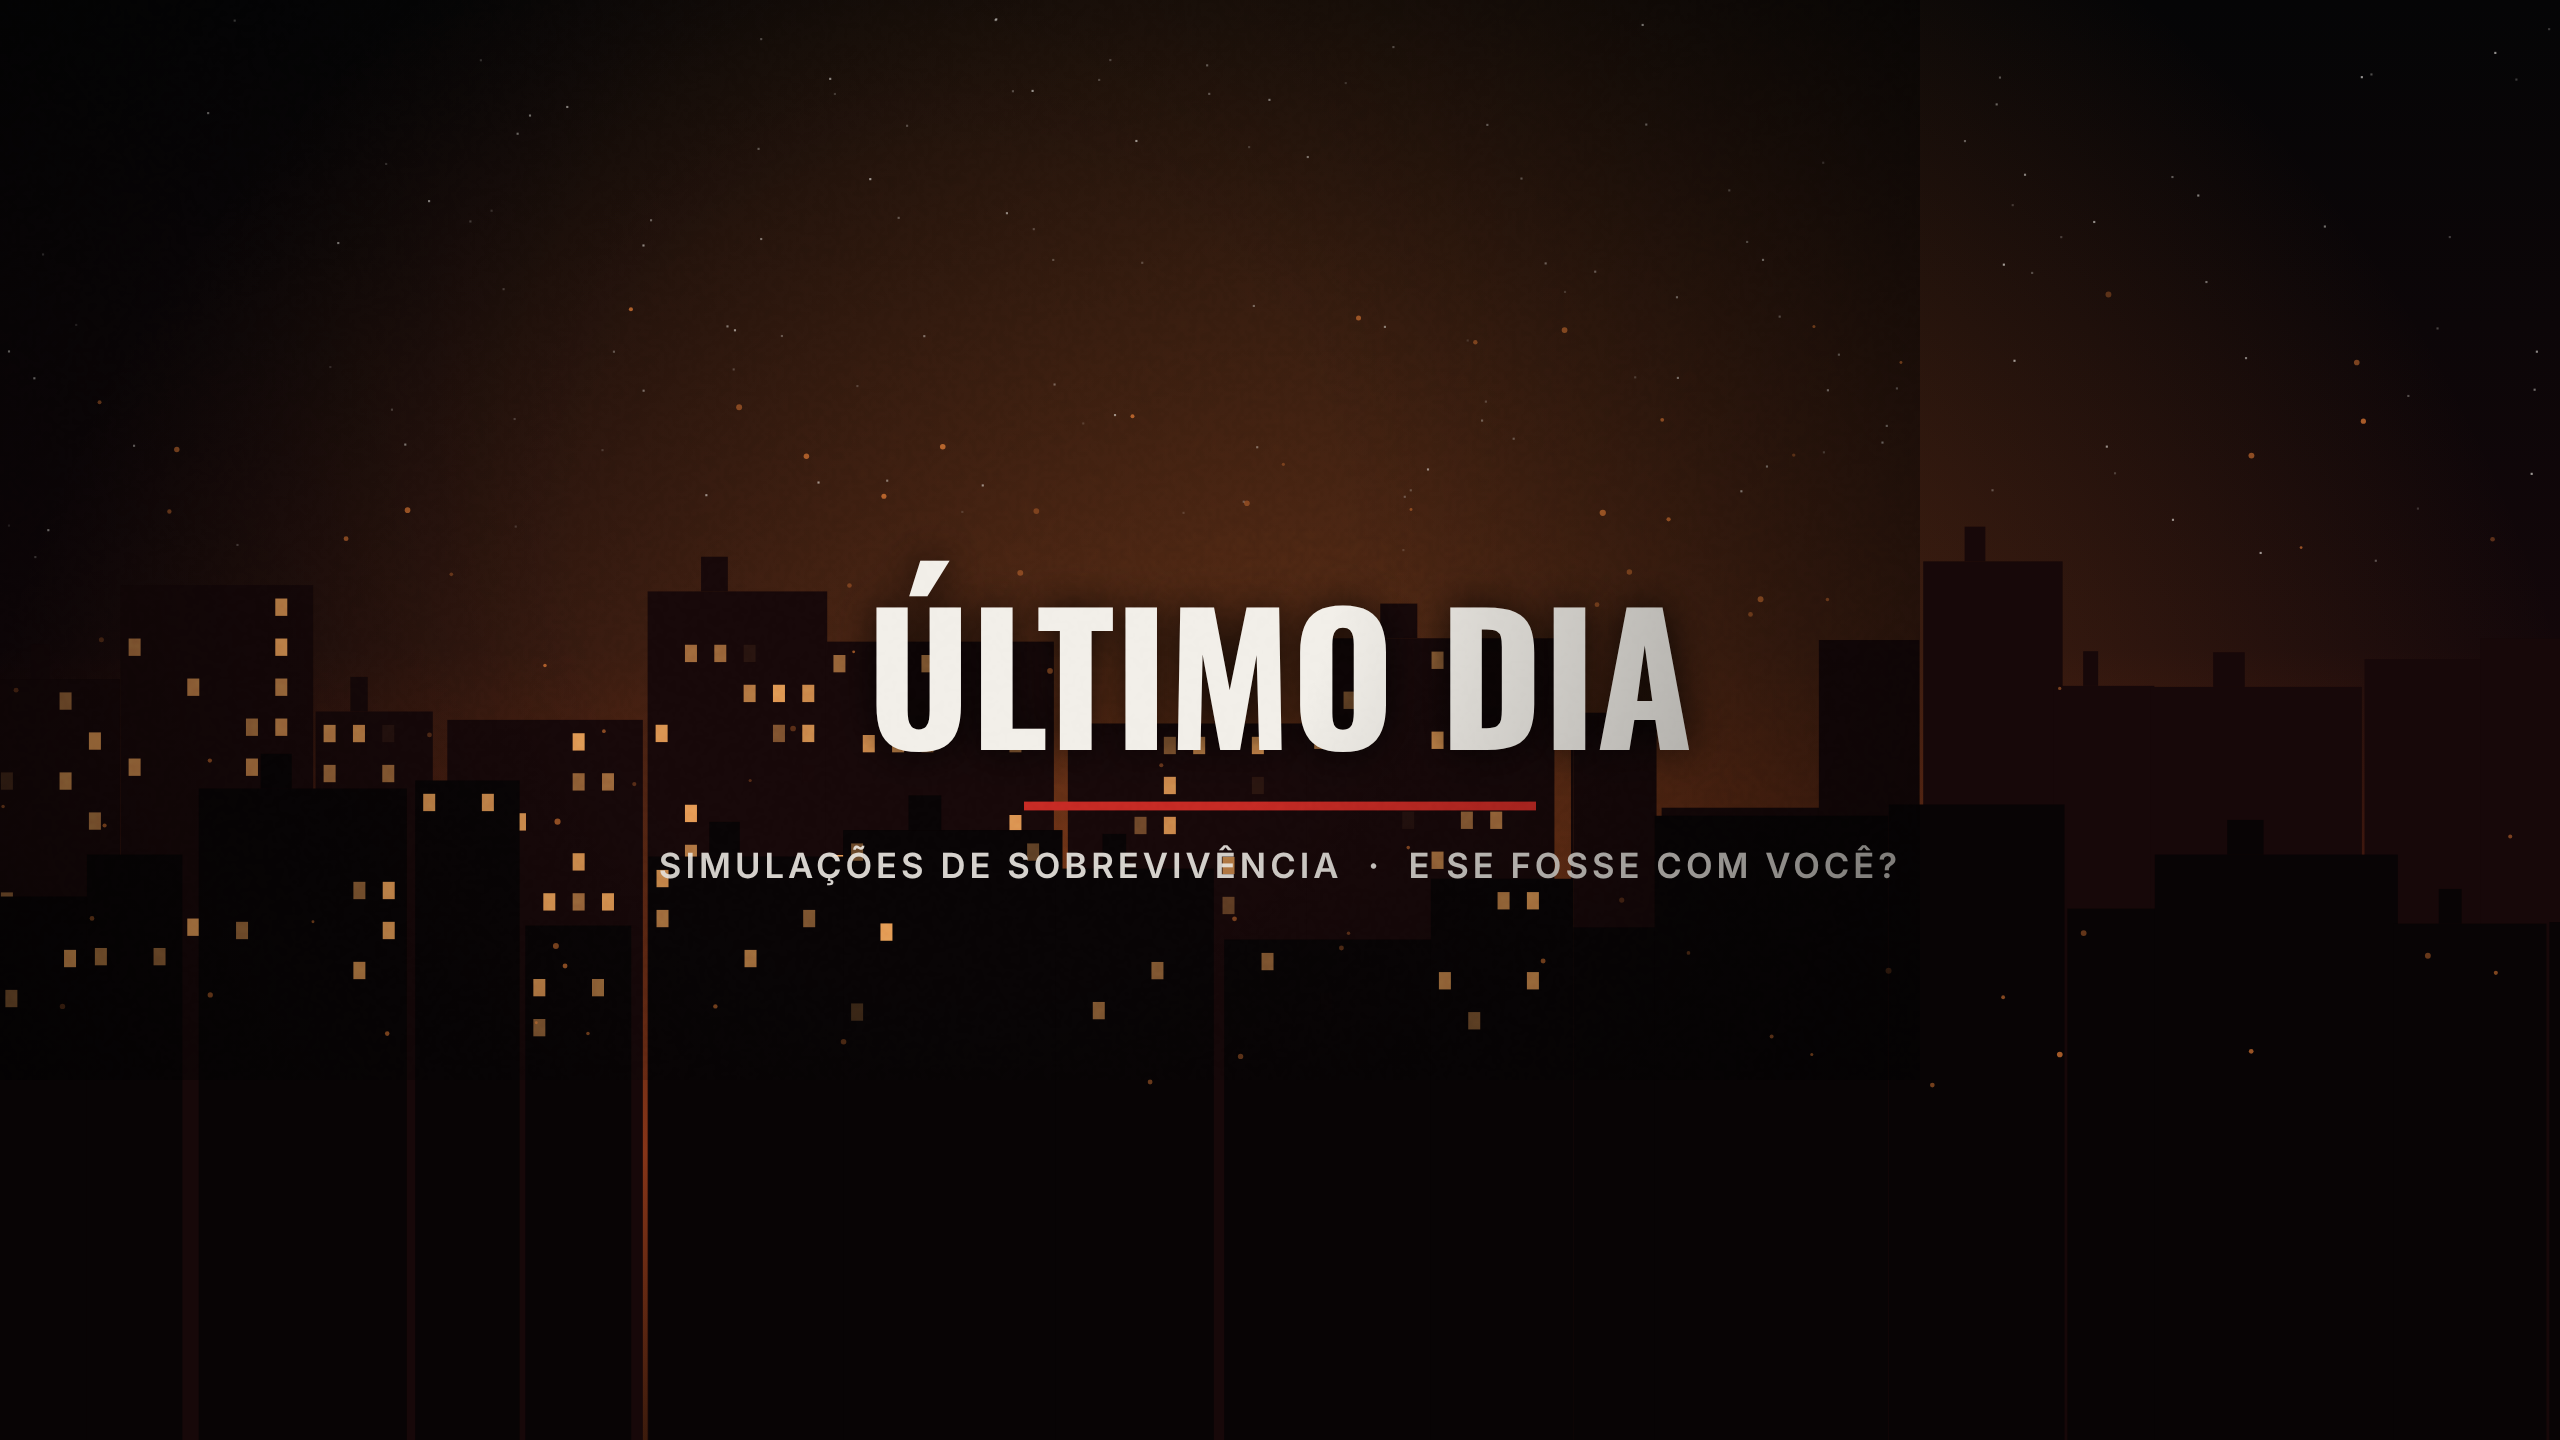
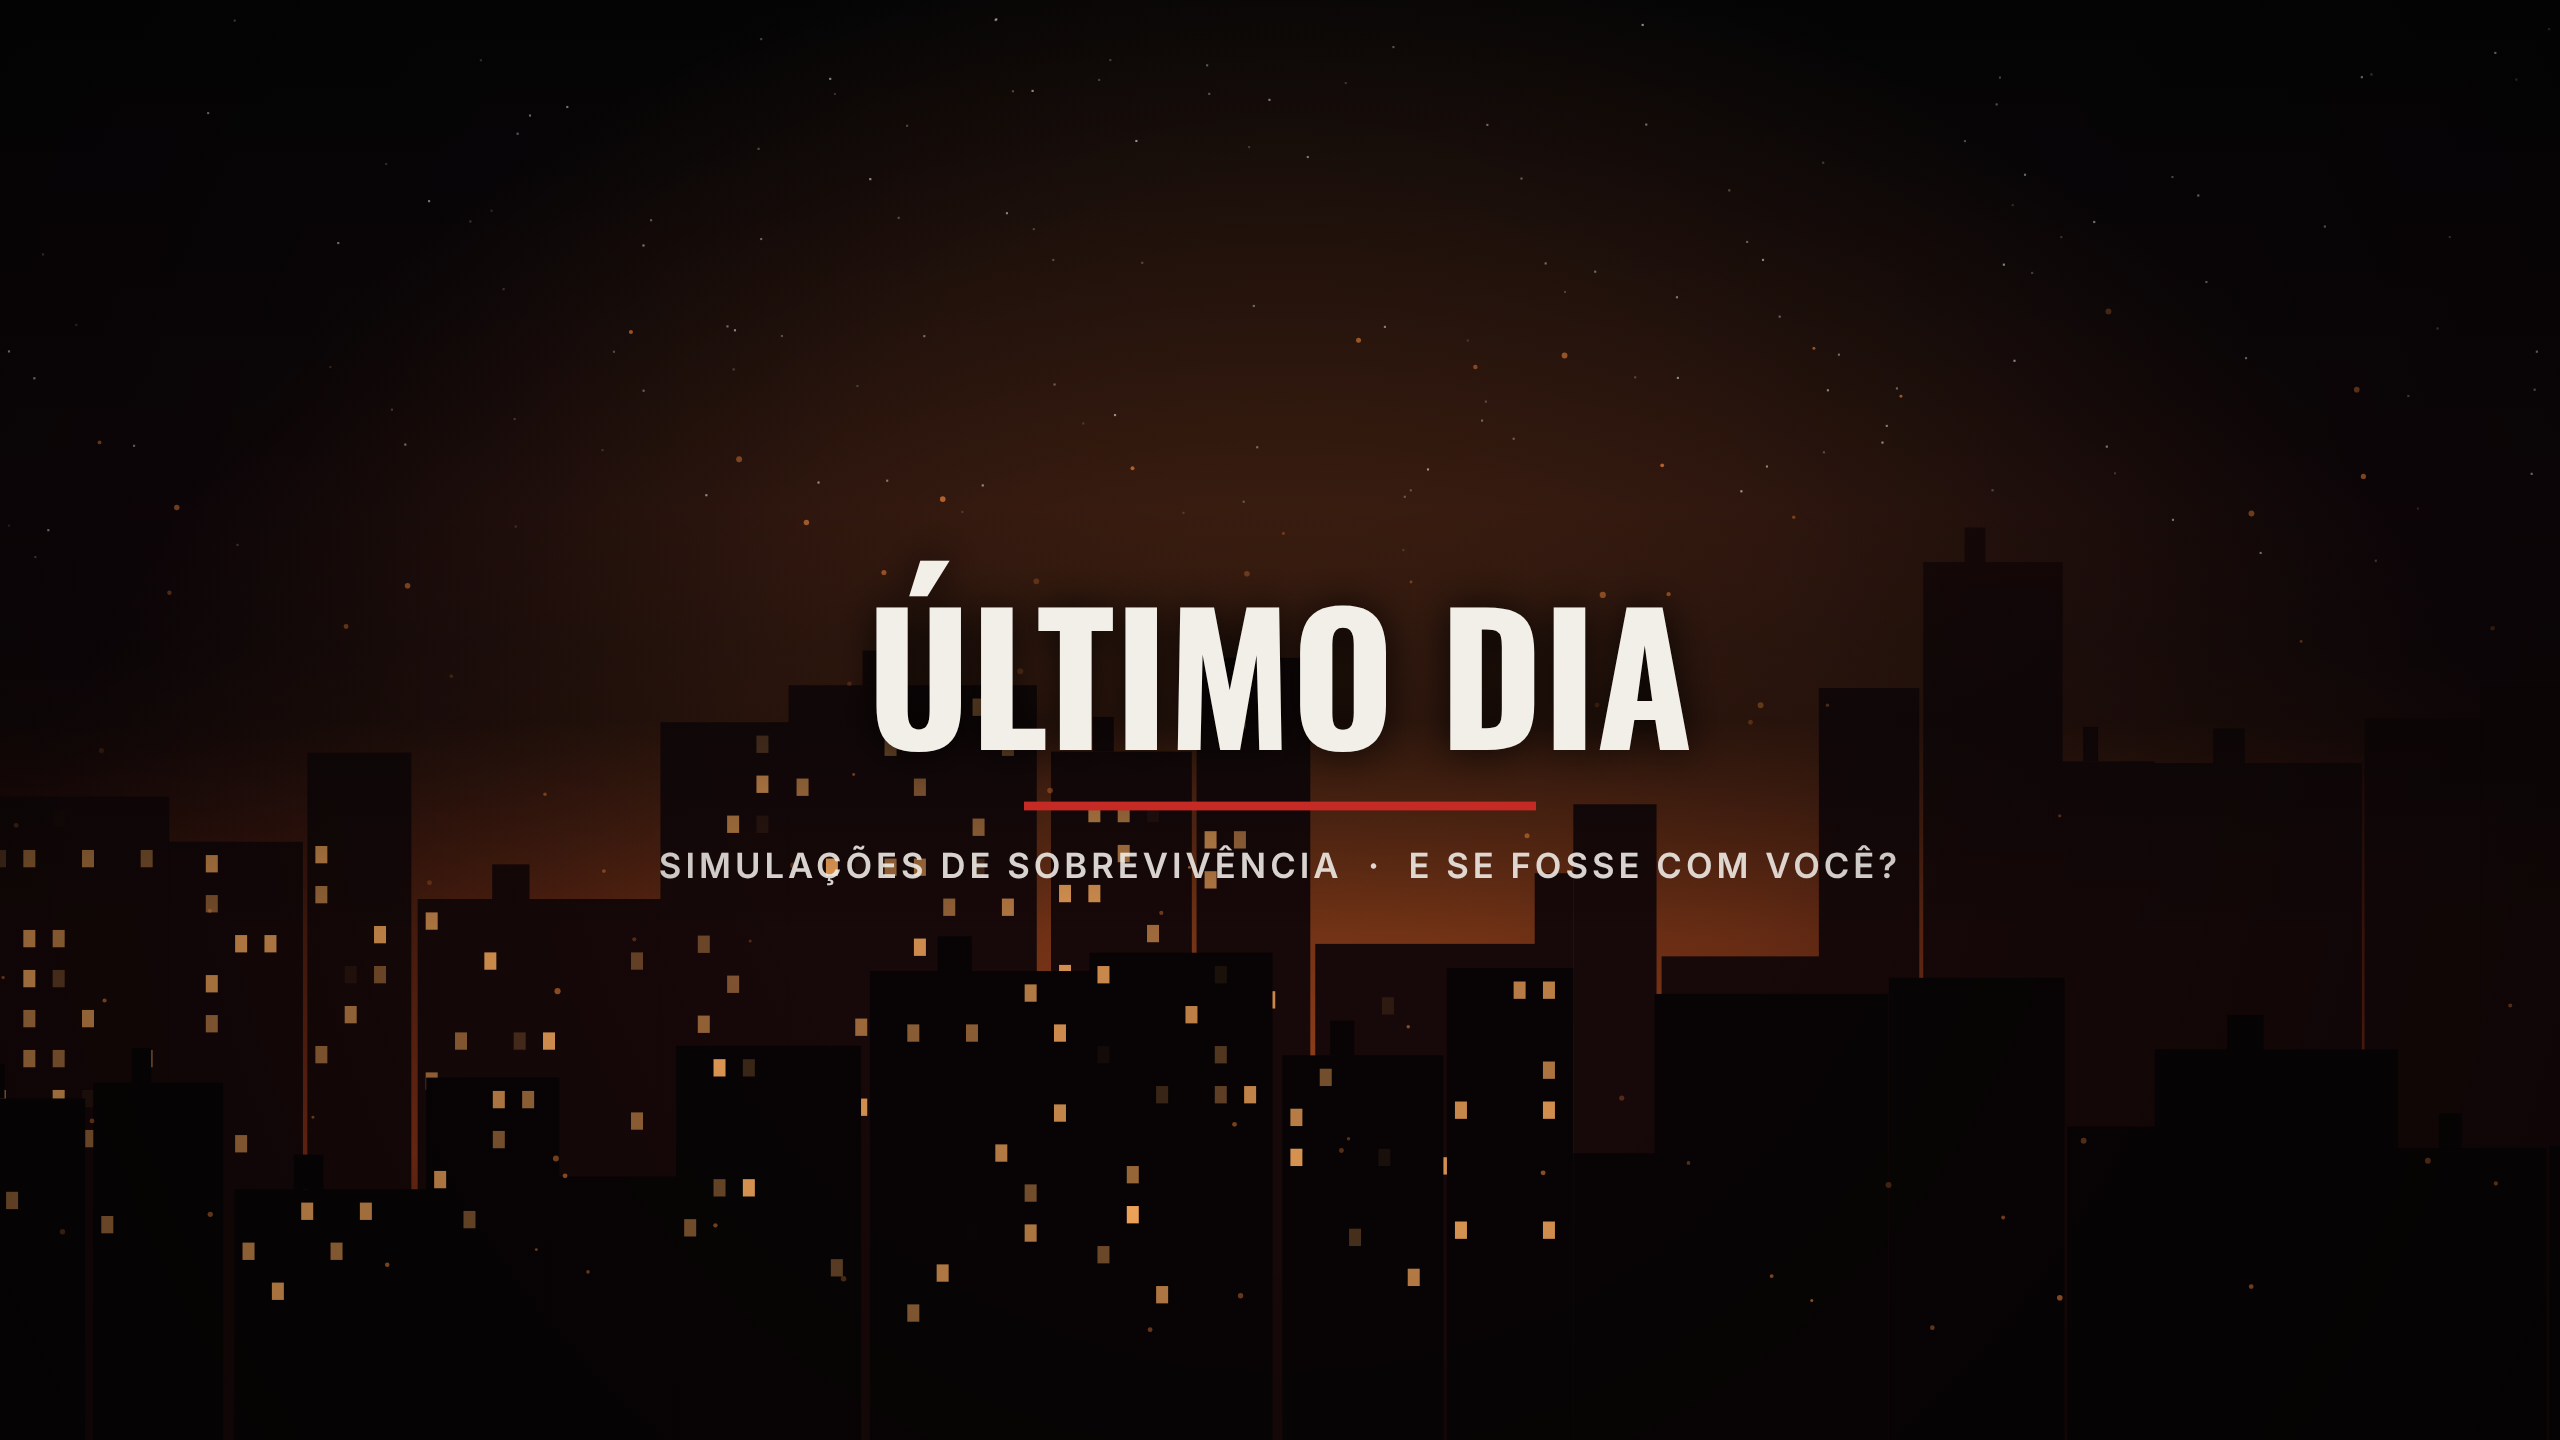
Capa do canal preenchendo a imagem inteira, sem emenda
Claude-Session: https://claude.ai/code/session_0176vtWdHsDHoiEjZ5iFUeLW

diff --git a/ULTIMO_DIA/projeto/identidade/identidade.html b/ULTIMO_DIA/projeto/identidade/identidade.html
@@ -47,12 +47,17 @@ function marca(c, x, y, tam, {lema = true, lemaTam = 26} = {}) {
   c.restore();
 }
 
+function vinheta(c, f) {
+  c.fillStyle = rgrad(c, W / 2, H / 2, H * 0.35, W * 0.75, [[0, 'rgba(0,0,0,0)'], [1, `rgba(0,0,0,${f})`]]); c.fillRect(0, 0, W, H);
+}
 function capa() {
   const cv = document.createElement('canvas'); cv.width = 2560; cv.height = 1440; cv.id = 'capa';
   const c = cv.getContext('2d'); c.scale(4 / 3, 4 / 3);  // composição em 1920x1080
-  fundoCidade(c, {base1: 720, alt1: 300, base2: 790, alt2: 210, corte: 1180});
+  fundoCidade(c, {base1: 900, alt1: 480, base2: 1000, alt2: 300, corte: 1180});
+  // faixa escura suave atrás do texto, para leitura em qualquer recorte
+  c.fillStyle = vgrad(c, 380, 700, [[0, 'rgba(5,5,6,0)'], [0.5, 'rgba(5,5,6,0.45)'], [1, 'rgba(5,5,6,0)']]); c.fillRect(0, 380, W, 320);
   marca(c, W / 2, 522, 132);
-  filme(c, 0, {vinheta: 0.5, grao: 0.04});
+  vinheta(c, 0.6);
   document.body.appendChild(cv);
 }
 
@@ -66,7 +71,7 @@ function perfil() {
   c.fillText(l1, W / 2, l2 ? 395 : 500); if (l2) c.fillText(l2, W / 2, 690);
   c.shadowBlur = 0; c.fillStyle = PAL.vermelhoVivo; c.fillRect(W / 2 - 170, 535, 340, 14);
   c.restore();
-  filme(c, 0, {vinheta: 0.35, grao: 0.03});
+  vinheta(c, 0.4);
   document.body.appendChild(cv);
 }
 window.gerar = async () => { await document.fonts.load('700 100px Oswald'); await document.fonts.load('600 20px Inter'); capa(); perfil(); return true; };
